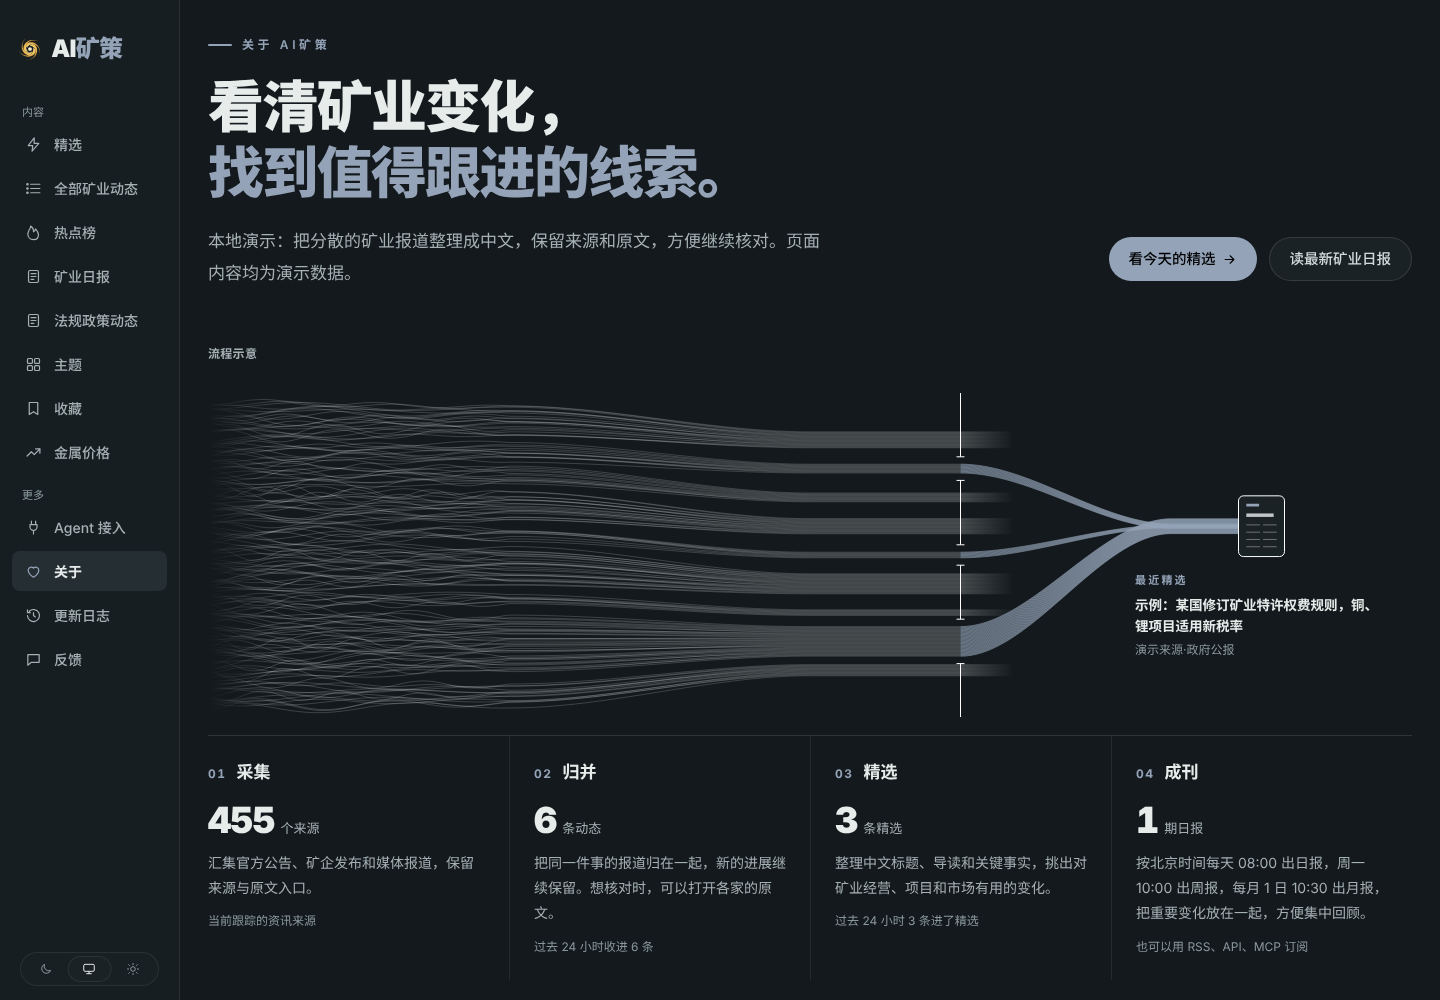
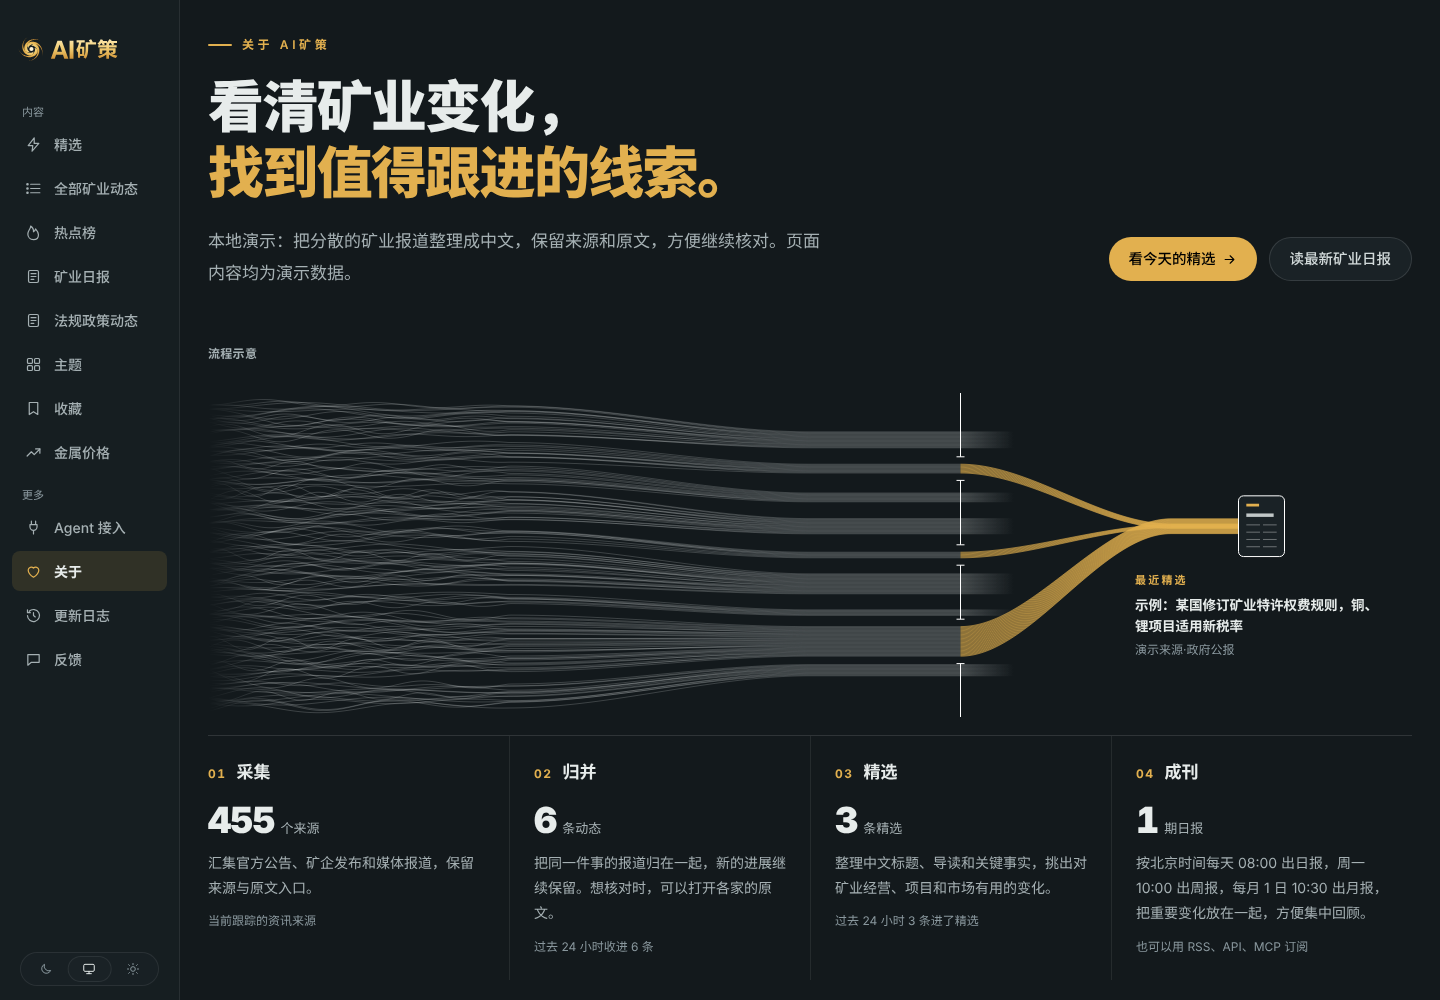
feat(brand): gold gradient lockup for the site name and brand-gold accent
scripts/wordmark.ts sets the mark and the name as one path logotype (light,
dark and small cuts) with the mark taller than the name; the wordmark uses
it, and the placeholder accent becomes the logo's gold.

Claude-Session: https://claude.ai/code/session_0178JUuC66XVoXgDZzqL45iP

diff --git a/scripts/wordmark.ts b/scripts/wordmark.ts
@@ -1,0 +1,80 @@
+// Generates the site lockup (industry/brand/lockup{,-dark,-small}.svg and lockup.json): the five-arm galaxy
+// mark followed by the site name set as SVG paths in a warm-gold gradient, so the wordmark is one static
+// logotype on every system (DEC-78 logo, Owner 2026-11-05: the name in gradient gold, the mark no smaller
+// than the name). Chinese in Noto Sans SC Bold, Latin in Instrument Sans Bold (both SIL OFL 1.1).
+//
+// Usage: node scripts/wordmark.ts <NotoSansSC-Bold.ttf> <InstrumentSans-Bold.ttf>
+//   (any copy of the two OFL fonts; they are not dependencies)
+import { readFileSync, writeFileSync } from "node:fs";
+import path from "node:path";
+import opentype from "opentype.js";
+import { SITE } from "@amp/industry/site";
+
+const [hanFile, latinFile] = process.argv.slice(2);
+if (!hanFile || !latinFile) throw new Error("usage: node scripts/wordmark.ts <NotoSansSC-Bold.ttf> <InstrumentSans-Bold.ttf>");
+const han = opentype.parse(readFileSync(hanFile).buffer);
+const latin = opentype.parse(readFileSync(latinFile).buffer);
+const BRAND = path.join(import.meta.dirname, "../industry/brand");
+
+/** Ink height of the Chinese glyphs; the mark box is 1.55× that (its ink about 1.3×), so it never reads smaller than the name. */
+const H = 100;
+const MARK = H * 1.55;
+const MARK_GAP = H * 0.2;
+/** Latin capitals a touch shorter than the ideographs, which read larger. */
+const CAPS = H * 0.92;
+const isLatin = (ch: string) => /[A-Za-z0-9]/.test(ch);
+const gap = (a: string, b: string) => (isLatin(a) && isLatin(b) ? H * 0.06 : isLatin(a) !== isLatin(b) ? H * 0.14 : H * 0.07);
+
+/** One glyph's outline, scaled so its ink is `height` tall, with its ink box. */
+function glyph(ch: string, height: number) {
+  const font = isLatin(ch) ? latin : han;
+  const probe = font.getPath(ch, 0, 0, 1000).getBoundingBox();
+  const size = (1000 * height) / (probe.y2 - probe.y1);
+  const p = font.getPath(ch, 0, 0, size);
+  return { path: p, box: p.getBoundingBox() };
+}
+
+// Set the name: each glyph's ink bottom sits on the baseline at y = 0, spacing measured ink to ink.
+let x = MARK + MARK_GAP;
+const parts: string[] = [];
+const chars = [...SITE.name];
+chars.forEach((ch, i) => {
+  const g = glyph(ch, isLatin(ch) ? CAPS : H);
+  const dx = x - g.box.x1,
+    dy = -g.box.y2;
+  for (const c of g.path.commands) {
+    if ("x" in c) (c.x += dx), (c.y += dy);
+    if ("x1" in c) (c.x1 += dx), (c.y1 += dy);
+    if ("x2" in c) (c.x2 += dx), (c.y2 += dy);
+  }
+  parts.push(g.path.toPathData(2));
+  x += g.box.x2 - g.box.x1 + (i < chars.length - 1 ? gap(ch, chars[i + 1]!) : 0);
+});
+const width = Math.ceil(x + 2);
+const top = -MARK / 2 - H / 2; // mark centred on the name's ink
+const vb = `0 ${top.toFixed(1)} ${width} ${MARK}`;
+
+/** The mark's inner markup from its master, placed at the left, centred on the name. */
+function markMarkup(file: string) {
+  const svg = readFileSync(path.join(BRAND, "source", file), "utf8");
+  const inner = svg.replace(/^<svg[^>]*>/, "").replace(/<\/svg>\s*$/, "");
+  return `<g transform="translate(0 ${top.toFixed(1)}) scale(${(MARK / 48).toFixed(4)})">${inner}</g>`;
+}
+
+/** Vertical gold for the name: light theme keeps to the deep half of the ramp, dark theme to the light half. */
+const TEXT = {
+  light: ["#C08A2C", "#A06A1E", "#7A4E12"],
+  dark: ["#FCE8AE", "#F0CA6E", "#D09439"],
+};
+function lockup(markFile: string, stops: string[]) {
+  const grad = `<linearGradient id="fw" gradientUnits="userSpaceOnUse" x1="0" y1="${-H}" x2="0" y2="0">${stops
+    .map((c, i) => `<stop offset="${i / (stops.length - 1)}" stop-color="${c}"/>`)
+    .join("")}</linearGradient>`;
+  return `<svg xmlns="http://www.w3.org/2000/svg" viewBox="${vb}"><defs>${grad}</defs>${markMarkup(markFile)}<path fill="url(#fw)" d="${parts.join("")}"/></svg>\n`;
+}
+
+writeFileSync(path.join(BRAND, "lockup.svg"), lockup("mark.svg", TEXT.light));
+writeFileSync(path.join(BRAND, "lockup-dark.svg"), lockup("mark-dark.svg", TEXT.dark));
+writeFileSync(path.join(BRAND, "lockup-small.svg"), lockup("mark-small.svg", TEXT.light));
+writeFileSync(path.join(BRAND, "lockup.json"), `${JSON.stringify({ viewBox: vb, aspect: +(width / MARK).toFixed(4), nameHeight: +(H / MARK).toFixed(4) })}\n`);
+console.log(`lockup ${vb}`);

diff --git a/apps/web/app/components/Logo.tsx b/apps/web/app/components/Logo.tsx
@@ -1,41 +1,30 @@
-// The site's wordmark: the five-arm galaxy mark (industry/brand/source/, DEC-78 logo, Owner 2026-11-04)
-// followed by the name from industry/site.ts set in type, a Latin lead in the text colour and the rest in
-// the accent, so "AI矿策" reads AI + 矿策 (PG-00). The marks are cached SVG files, not inlined paths.
-// Below 24px the small-size cut (deeper gold, solid core) replaces both theme variants. Also the loader dots.
+// The site's wordmark: the five-arm galaxy mark and the site name (industry/site.ts) set as one gold logotype
+// (industry/brand/lockup*.svg, made by scripts/wordmark.ts; DEC-78 logo, Owner 2026-11-05: the name in
+// gradient gold, the mark no smaller than the name). Cached SVG files, not inlined paths; the theme picks
+// the light or dark cut, and below 24px the small-size cut (deeper gold, solid core) serves both. Also the loader dots.
 import { SITE } from "@amp/industry/site";
-import markDark from "@amp/industry/brand/source/mark-dark.svg?url&no-inline";
-import markSmall from "@amp/industry/brand/source/mark-small.svg?url&no-inline";
-import mark from "@amp/industry/brand/source/mark.svg?url&no-inline";
+import lockupDark from "@amp/industry/brand/lockup-dark.svg?url&no-inline";
+import lockup from "@amp/industry/brand/lockup.json";
+import lockupSmall from "@amp/industry/brand/lockup-small.svg?url&no-inline";
+import lockupLight from "@amp/industry/brand/lockup.svg?url&no-inline";
 
-const [, LEAD = "", REST = ""] = /^([A-Za-z0-9]*)(.*)$/su.exec(SITE.name) ?? [];
-
-function Mark({ size }: { size: number }) {
-  const px = Math.round(size * 1.15);
-  const img = (src: string, className = "") => (
-    <img src={src} width={px} height={px} alt="" aria-hidden="true" decoding="async" className={`shrink-0 ${className}`} />
-  );
-  if (size < 24) return img(markSmall);
-  return (
-    <>
-      {img(mark, "dark:hidden")}
-      {img(markDark, "hidden dark:block")}
-    </>
-  );
-}
-
+/** `size` is the type size the name stands in for; the lockup is drawn a little taller so the mark leads. */
 export function Wordmark({ size = 22, className = "" }: { size?: number; className?: string }) {
+  const height = Math.round(size * 1.3);
+  const width = Math.round(height * lockup.aspect);
+  const img = (src: string, extra = "") => (
+    <img src={src} width={width} height={height} alt="" aria-hidden="true" decoding="async" className={`block ${extra}`} />
+  );
   return (
-    <span
-      className={`inline-flex items-center gap-[0.3em] font-black leading-none tracking-[-0.03em] ${className}`}
-      style={{ fontSize: size }}
-      aria-label={SITE.name}
-      role="img"
-    >
-      <Mark size={size} />
-      <span aria-hidden="true">
-        {LEAD}
-        <span className="text-accent">{REST}</span>
-      </span>
+    <span className={`inline-flex shrink-0 items-center ${className}`} aria-label={SITE.name} role="img">
+      {height < 24 ? (
+        img(lockupSmall)
+      ) : (
+        <>
+          {img(lockupLight, "dark:hidden")}
+          {img(lockupDark, "hidden dark:block")}
+        </>
+      )}
     </span>
   );
 }

diff --git a/apps/web/app/app.css b/apps/web/app/app.css
@@ -3,8 +3,8 @@
 /* ---------------------------------------------------------------------------
    Design tokens: warm off-white paper, ink text, one accent, hairline borders,
    no gradients. Components use the semantic names below; values change per
-   theme only. The accent is a temporary neutral placeholder (临时) until T-0006
-   settles the palette with the Owner (Q-67).
+   theme only. The accent is the brand gold of the galaxy logo (DEC-78); only the
+   logotype itself (industry/brand/lockup*.svg) carries the gradient.
    --------------------------------------------------------------------------- */
 
 @custom-variant dark (&:where([data-theme="dark"], [data-theme="dark"] *));
@@ -93,11 +93,11 @@
   --line: #dfe4e1;
   --line-strong: #d1d9d5;
   --line-soft: #e9ede9;
-  /* 临时: neutral placeholder accent until T-0006 (Q-67). */
-  --accent: #475569;
-  --accent-ink: #334155;
-  --accent-soft: rgba(71, 85, 105, 0.08);
-  --accent-softer: rgba(71, 85, 105, 0.05);
+  /* Brand gold from the galaxy logo (DEC-78, Owner 2026-11-05): the deep end of its ramp, 5.6:1 on paper. */
+  --accent: #8a5a17;
+  --accent-ink: #6e4710;
+  --accent-soft: rgba(160, 106, 30, 0.1);
+  --accent-softer: rgba(160, 106, 30, 0.06);
   --accent-contrast: #ffffff;
   --note: #526f72;
   --hot: #b3402a;
@@ -140,11 +140,11 @@
   --line: rgba(255, 255, 255, 0.08);
   --line-strong: rgba(255, 255, 255, 0.12);
   --line-soft: rgba(255, 255, 255, 0.06);
-  /* 临时: neutral placeholder accent until T-0006 (Q-67). */
-  --accent: #94a3b8;
-  --accent-ink: #cbd5e1;
-  --accent-soft: rgba(148, 163, 184, 0.12);
-  --accent-softer: rgba(148, 163, 184, 0.06);
+  /* Brand gold, the light end of the logo ramp for dark paper (8.9:1). */
+  --accent: #e2b04f;
+  --accent-ink: #f0ca6e;
+  --accent-soft: rgba(226, 176, 79, 0.13);
+  --accent-softer: rgba(226, 176, 79, 0.07);
   --accent-contrast: #000000;
   --note: #8fb8a8;
   --hot: #d86a52;

diff --git a/tasks/TASK-0512.md b/tasks/TASK-0512.md
@@ -5,7 +5,7 @@ lane: architect
 title: 启用定稿标识“五臂星系”（图标与站名字标）
 milestone: M3
 specs: [PG-00, DEC-78]
-allowed_paths: [industry/brand/source/app-icon.svg, industry/brand/source/mark.svg, industry/brand/source/mark-dark.svg, industry/brand/source/mark-small.svg, industry/brand/logo.svg, industry/brand/icon.png, industry/brand/icon-192.png, industry/brand/apple-icon.png, industry/brand/favicon.ico, industry/package.json, scripts/brand-icons.ts, apps/web/app/components/Logo.tsx, docs/assets/reader-preview/reader-light.png, docs/assets/reader-preview/reader-dark.png, docs/assets/reader-preview/reader-mobile.png, docs/assets/reader-preview/about-flow-dark.png, changes/TASK-0512-galaxy-logo.md, industry/release-note.json, tasks/TASK-0512.md, tasks/INDEX.md]
+allowed_paths: [industry/brand/source/app-icon.svg, industry/brand/source/mark.svg, industry/brand/source/mark-dark.svg, industry/brand/source/mark-small.svg, industry/brand/logo.svg, industry/brand/icon.png, industry/brand/icon-192.png, industry/brand/apple-icon.png, industry/brand/favicon.ico, industry/brand/lockup.svg, industry/brand/lockup-dark.svg, industry/brand/lockup-small.svg, industry/brand/lockup.json, industry/package.json, scripts/brand-icons.ts, scripts/wordmark.ts, apps/web/app/app.css, apps/web/app/components/Logo.tsx, docs/assets/reader-preview/reader-light.png, docs/assets/reader-preview/reader-dark.png, docs/assets/reader-preview/reader-mobile.png, docs/assets/reader-preview/about-flow-dark.png, changes/TASK-0512-galaxy-logo.md, industry/release-note.json, tasks/TASK-0512.md, tasks/INDEX.md]
 verify: [npm run typecheck, npm run check]
 contracts: {change: none, files: []}
 base_sha: 49fe8ba
@@ -21,13 +21,21 @@ Owner 2026-11-04 定稿：五臂星系，浅色象牙底，金色由内到外 9 
 
 - 定稿母版放到 `industry/brand/source/`：`app-icon.svg`（应用图标）、`mark.svg` / `mark-dark.svg`（浅色、深色页面用，只有核心颜色不同）、`mark-small.svg`（16–32px 专用，金色加深、实心核心）。
 - `scripts/brand-icons.ts` 改为从母版生成 `industry/brand/{logo.svg, icon.png, icon-192.png, apple-icon.png, favicon.ico}`，不再用字体生成“矿”字；苹果图标铺象牙底 `#F6F0E3`，favicon 用小尺寸版。运行：`node scripts/brand-icons.ts`。
-- `Logo.tsx` 的站名字标前加上星系标：以缓存的 SVG 文件引用（不内联路径），24px 以下用小尺寸版，其余按主题切换浅色、深色版。侧栏、手机页头、加载页、重大更新弹窗随之更新。
+- 新增 `scripts/wordmark.ts`：把星系标和站名“AI矿策”组合成一个字标 `industry/brand/lockup{,-dark,-small}.svg`（Owner 2026-11-05：站名用金色渐变，标志不小于字）。
+  - 字形转成路径，各系统显示一致：“矿策”用 Noto Sans SC Bold，“AI”用 Instrument Sans Bold，均为 OFL 字体。
+  - 标志高度约为字高的 1.3 倍。浅色主题用渐变的深半段，深色主题用浅半段。
+  - 运行：`node scripts/wordmark.ts <NotoSansSC-Bold.ttf> <InstrumentSans-Bold.ttf>`。
+- `Logo.tsx` 改用这套字标，以缓存的 SVG 文件引用，不内联路径。
+  - 24px 以下用小尺寸版，其余按主题切换浅色、深色版。
+  - 字标整体比原来的文字字标略大。
+  - 侧栏、手机页头、加载页、重大更新弹窗随之更新。
+- 主题强调色从临时的灰蓝（T-0006 占位）改为标志的金色：浅色 `#8a5a17`（在纸色上 5.6:1），深色 `#e2b04f`（8.9:1）。
 - README 四张截图用演示 API 重拍。
 
 ## 没做什么
 
-- 没有改主题色（站名“矿策”仍用现有强调色），色彩令牌留给 R2。
-- 没有改日报刊头、OG 图和海报；定制字标仍待 Owner 看对比图后决定。
+- 正文字体和字号没有改，留给 R2 排版。
+- 没有改日报刊头、OG 图和海报，海报里的强调色仍是旧的 `#475569`。这些留给 R2，届时一并把 `OG_TEMPLATE_VERSION` 加 1。
 
 ## 验证
 

diff --git a/changes/TASK-0512-galaxy-logo.md b/changes/TASK-0512-galaxy-logo.md
@@ -3,7 +3,7 @@ type: 优化
 audience: 读者
 title: 启用新标识“五臂星系”
 highlights:
-  - 网站标识换成五臂星系：五条暖金旋臂环绕发光的 AI 核心，浏览器标签、桌面图标和页面顶部的站名一起更新。
+  - 网站标识换成五臂星系：五条暖金旋臂环绕发光的 AI 核心，站名改用金色渐变，浏览器标签、桌面图标和页面顶部一起更新；导航和标记的强调色也换成同一种金色。
 ---
 
 站名、栏目和阅读方式不变；小尺寸下使用加深的金色，保证在标签栏里也能看清。
